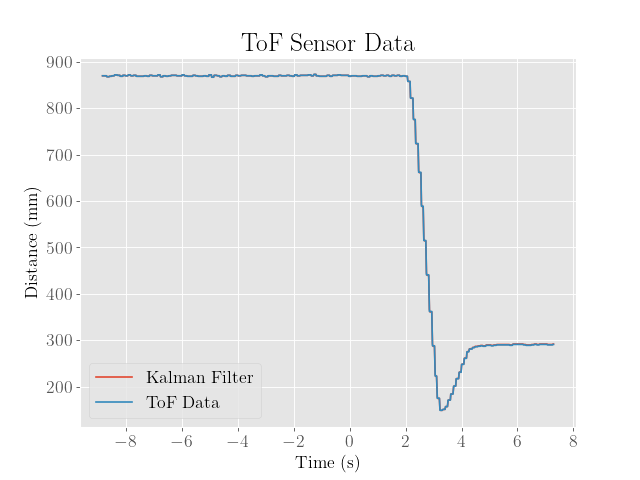
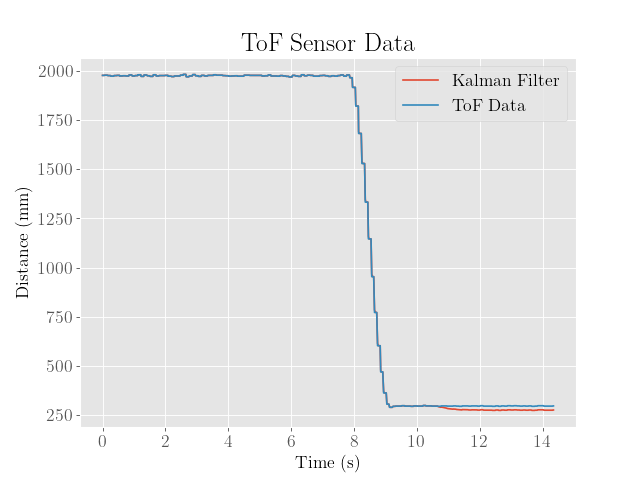
lab 7

diff --git a/docs/_pages/lab-7.md b/docs/_pages/lab-7.md
@@ -53,7 +53,6 @@ This was basically accomplished by setting the PWM values of the robot to the ma
 
 The ToF sensor data was then collected as the robot approached a wall, and the resulting sensor outputs, motor inputs were plotted. 
 
- ToF Data                                  | PWM Data                                  |
 |:----------------------------------------:|:-----------------------------------------:|
 ![Carpet ToF](/lab-7-assets/carpet_tof.png)|![Carpet PWM](/lab-7-assets/carpet_pwm.png)|
 
@@ -65,7 +64,6 @@ To fix this, a second moving average filter with a window size of 10 samples was
 
 This approach admittedly was a bit hacky and is most likely an underestimate of the actual steady state speeds, as the robot did not have enough time to appreciably plateau in speed. Furthermore, the introduction of moving average filters may have also smoothed out fast transitions in the depth data that may have been due to the actual movement of the robot, rather than noise in the sensor.
 
- Calculated Speed                              | Averaged Speed                                            |
 :---------------------------------------------:|:---------------------------------------------------------:|
 ![Carpet Speed](/lab-7-assets/carpet_speed.png)|![Carpet Average Speed](/lab-7-assets/carpet_avg_speed.png)|
 
@@ -101,13 +99,11 @@ Since the drag coefficient could depend quite heavily on the kind of surface the
 
 <iframe width="560" height="315" src="https://www.youtube.com/embed/K4nFhaZZuK4" title="YouTube video player" frameborder="0" allow="accelerometer; autoplay; clipboard-write; encrypted-media; gyroscope; picture-in-picture; web-share" allowfullscreen></iframe>
 
- ToF Data                                | PWM Data                                | 
 |:--------------------------------------:|:---------------------------------------:|
 ![Floor ToF](/lab-7-assets/floor_tof.png)|![Floor PWM](/lab-7-assets/floor_pwm.png)|
 
 We then calculate the steady-state speed using the same approach as before, which comes out to around 2049 mm/s:
 
- Calculated Speed                            | Averaged Speed                                          |
 :-------------------------------------------:|:-------------------------------------------------------:|
 ![Floor Speed](/lab-7-assets/floor_speed.png)|![Floor Average Speed](/lab-7-assets/floor_avg_speed.png)|
 
@@ -159,7 +155,7 @@ B_d &= Bh \\
 B_d &= 
 \begin{bmatrix}
 0 \\
-4376h
+3682h
 \end{bmatrix}
 \end{align}$$
 
@@ -268,17 +264,32 @@ def kf(mu,sigma,u,y):
 
 This was then tested on data from a previous iteration of the PID controller with overshoot:
 
-![KF Overshoot](/lab-7-assets/kf.png)
+|:--------------------------------------------:|:---------------------------------------------------------:|
+![KF Overshoot](/lab-7-assets/kf_overshoot.png)|![KF Overshoot Error](/lab-7-assets/kf_overshoot_error.png)|
+
+After both iterations, we find that the filter is nearly indistinguishable from the actual measurements, suggesting that the noise covariance values are already close to optimal, with the exception of the final predicted values, which seem to be offset by a constant error. Because the residuals are clearly biased, it seems that the system parameters were incorrectly estimated.
+
+A solution to this was to adjust the drag coefficient to $d = 0.4403$, which was admittedly somewhat hacky, but this seemed to correct the bias. We also adjust the sensor covariance to $\Sigma_z = 1$, which significantly reduced the overall magnitude of the residuals everywhere:
+
+|:----------------------------------------------------------:|:-----------------------------------------------------------------------:|
+![KF Overshoot Optimized](/lab-7-assets/kf_overshoot_opt.png)|![KF Overshoot Optimized Error](/lab-7-assets/kf_overshoot_opt_error.png)|
 
 Note that we plot the mean of the filter and ignore the resulting covariance in this plot. We also only plot the inverted position estimate, which should equal the distance from the wall by virtue of how the origin was defined.
 
-We then test this once more on the optimized PID controller developed in Lab 6 with minimal overshoot:
+One danger to adjusted the system parameter $d$ is a potential overfitting of the filter and system to a particular dataset. To verify that this effect is not too egregious, we test the filter once more on the optimized PID controller data developed in Lab 6:
 
-![KF Optimal](/lab-7-assets/kf_optimal.png)
+|:----------------------------------------:|:---------------------------------------------------------:|
+![KF Optimal](/lab-7-assets/kf_optimal.png)|![KF Optimal Residuals](/lab-7-assets/kf_optimal_error.png)|
 
-After both iterations, we find that the filter is nearly indistinguishable from the actual measurements, suggesting that the noise covariance values are already close to optimal.
+Note that despite the attempts to minimize the residuals, there are occassionally large spikes in error that do not seem to be explained by random noise alone, suggesting that the system parameters might still need some adjusting.
 
 ## Implementation
+
+Once the Kalman filter was verified to work in Python, the next step was to implement the filter on the robot:
+
+```cpp
+
+``` 
 
 ## Speedup
 
